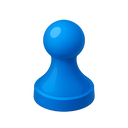
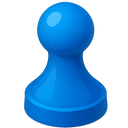
ludocanvas token size decreased

Changed region(s): [[0.1875, 0.0, 0.8438, 1.0]]

diff --git a/src/components/LudoCanvas.jsx b/src/components/LudoCanvas.jsx
@@ -6,6 +6,9 @@ import { useSocket } from "../context/SocketContext";
 // dice dimensions in pixels
 const DICE_SIZE = 56;
 
+// scaling factor for token diameter relative to a board tile
+const TOKEN_SCALE = 1.1;
+
 // lazily load token PNGs at two resolutions (64,128 px)
 const tokenImages = {};
 
@@ -1136,7 +1139,7 @@ const LudoCanvas = ({
       if (step < 0 || step >= PATHS[color].length) return;
       // compute its screen center:
       const [cx, cy, tile] = project(...PATHS[color][step]);
-      const diam = tile * 1.5;
+      const diam = tile * TOKEN_SCALE;
       const offsetY = diam * 0.2; // same lift as your token
 
       // draw a rotating ring centered under the token:
@@ -1184,7 +1187,7 @@ const LudoCanvas = ({
         const x = fx + (tx - fx) * e;
         const y = fy + (ty - fy) * e - Math.sin(Math.PI * e) * height;
 
-        const diam = tileSize * 1.5;
+        const diam = tileSize * TOKEN_SCALE;
         const realPx = diam * window.devicePixelRatio;
         const size = [64, 128].find((s) => s >= realPx) || 128;
         const design =
@@ -1237,7 +1240,7 @@ const LudoCanvas = ({
           const alpha = 1 - t;
           // compute on-board pixel position:
           const [cx, cy, tile] = project(...PATHS[color][step]);
-          const diam = tile * 1.5;
+          const diam = tile * TOKEN_SCALE;
           const size =
             [64, 128].find((s) => s >= diam * window.devicePixelRatio) || 128;
           const design =
@@ -1360,7 +1363,7 @@ const LudoCanvas = ({
 
       const [row, col] = cell.split("-").map(Number);
       const [cx, cy, tile] = project(row, col);
-      const baseDiam = tile * 1.5;
+      const baseDiam = tile * TOKEN_SCALE;
       const lift = baseDiam * 0.2;
 
       // clamp to at most 4 tokens drawn
